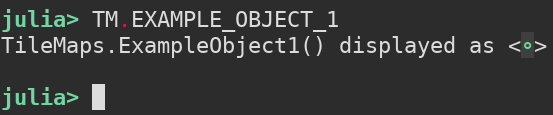
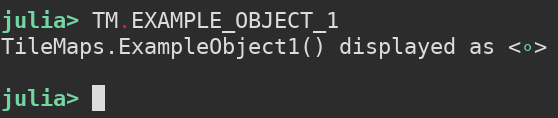
allow custom background color & remove bold (#8)
* add compat entry for Crayons

* add get_foreground_color and get_background_color

* update README

* update screenshots

* update README

diff --git a/README.md b/README.md
@@ -70,18 +70,22 @@ julia>
 
 ### Indexing a `TileMap`
 
-In addition to the normal ways of indexing an array, you can also use an object to index the first dimension of a `tile_map`. For example, something like this:
+In addition to the normal ways of indexing an array, you can also use an object or an array of objects to index the first dimension of a `tile_map`. For example, something like this:
 
 ```
-julia> tile_map[TM.EXAMPLE_OBJECT_3, 4, 6];
+julia> tile_map[TM.EXAMPLE_OBJECT_3, 4, 6]
+true
 
-julia>
-```
+julia> tile_map[TM.EXAMPLE_OBJECT_3, 2:4, 6:7]
+3×2 BitMatrix:
+ 1  1
+ 0  1
+ 1  1
 
-This is only supported for one object at a time. You can use other forms of indexing for the `height` and `width` dimensions, for example:
-
-```
-julia> tile_map[TM.EXAMPLE_OBJECT_3, 4:7, :];
+julia> tile_map[[TM.EXAMPLE_OBJECT_3, TM.EXAMPLE_OBJECT_1], 5, 8]
+2-element BitVector:
+ 0
+ 1
 
 julia>
 ```
@@ -92,23 +96,32 @@ Using the [`Crayons`](https://github.com/KristofferC/Crayons.jl) package, each o
 
 <img src="https://github.com/Sid-Bhatia-0/TileMaps.jl/blob/master/assets/example_object_1.png">
 
-When you create your own object like this, for example,
+When you create your custom object like this, for example,
 
 <img src="https://github.com/Sid-Bhatia-0/TileMaps.jl/blob/master/assets/my_object.png">
 
-you should also consider implementing the `get_char(::MyObject)` and `get_color(::MyObject)` methods corresponding to it. If you don't do so, it will be displayed based on the following default methods defined in this package:
+you may also want to implement the following methods: `get_char(::MyObject)` (especially this one), `get_foreground_color(::MyObject)`, and `get_backround_color(::MyObject)`. If you don't do so, it will be displayed based on the following default methods defined in this package:
 
 ```
 get_char(object::Any) = '?'
-get_color(object::Any) = :white
+get_foreground_color(object::Any) = :white
+get_backround_color(object::Any) = :nothing
 ```
 
-A `tile_map` is displayed as a 2D grid of colored Unicode characters, with one character displayed per tile. Only the first object present at a tile (along the first dimension of the `grid`) is displayed for that tile, even though there may be multiple objects present at that tile. If there are no objects present at a tile, then the `⋅` character is displayed for that tile (with white color).
+A `tile_map` is displayed as a 2D grid of colored Unicode characters, with one character displayed per tile. Only the first object present at a tile (along the first dimension (`num_objects` dimension) of the `grid`) is displayed for that tile, even though there may be multiple objects present at that tile. If there are no objects present at a tile, then the `⋅` character is displayed for that tile (with white color). This behaviour can be customized by overriding the following methods:
+
+```
+get_char(::Nothing) = '⋅'
+get_foreground_color(::Nothing) = :white
+get_background_color(::Nothing) = :nothing
+```
 
 <img src="https://github.com/Sid-Bhatia-0/TileMaps.jl/blob/master/assets/tile_map.png">
 
-Note here that the `get_char` and `get_color` methods have purposefully not been defined for the `TM.ExampleObject3` type explictly in order to demonstrate the fallback to the default character and color, which is why `TM.EXAMPLE_OBJECT_3` is displayed using a white colored `?`.
+Note that the `get_char`, `get_foreground_color`, and `get_background_color` methods have purposefully not been defined for the `TM.ExampleObject3` type in order to demonstrate the fallback to the default character and colors, which is why `TM.EXAMPLE_OBJECT_3` is displayed using a white colored `?` with no background.
 
 We can also inspect each kind of object in the `tile_map` separately using the `show_layers` method. This is very handy for debugging:
 
 <img src="https://github.com/Sid-Bhatia-0/TileMaps.jl/blob/master/assets/show_layers.png">
+
+Here we have used only a limited number of features (foreground and background colors) from the [`Crayons`](https://github.com/KristofferC/Crayons.jl) package for showing an example of how one may want to display a `tile_map`. It has several other features that you can play with to suit your needs.
